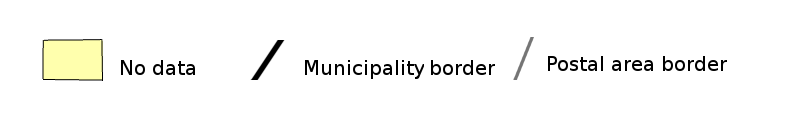
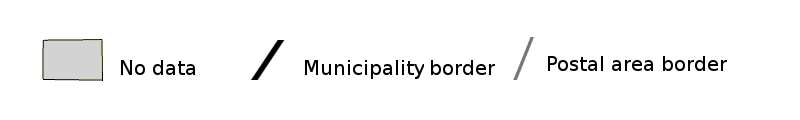
color sceme updates on map, legend updated, avg built year map

Changed region(s): [[0.0312, 0.325, 0.125, 0.675]]

diff --git a/src/drawMaps.py b/src/drawMaps.py
@@ -22,12 +22,19 @@ map = gpd.read_file(mapfile)
 map['POSTI_ALUE'] = map['POSTI_ALUE']
 
 #group the data by postal code and colculate mean size value
-data =  grouper.grouper(data, groupedBy= 'POSTI_ALUE', calculateFrom=['sizeValue', 'rentValue', 'pricePerSquare'])
+data =  grouper.grouper(data, groupedBy= 'POSTI_ALUE', calculateFrom=['sizeValue', 'rentValue', 'pricePerSquare', 'built_year'])
 data['POSTI_ALUE'] = data['POSTI_ALUE']
 
 #will toss runtime warning, because more than 20 figures opened
 #draw maps per postal code
-'''
+
+folder = 'figures/averageYearMap'
+for ix, row in map.iterrows():
+    alue = row['POSTI_ALUE']
+    name = 'avgBuiltYear' + alue + '.png'
+    filepath = os.path.join(folder, name)
+    mapMaker.makeMap(map, data, 'POSTI_ALUE', 'built_year', 'Average built year', \
+                     filepath,  spesArea = alue, spesCol = 'POSTI_ALUE',)
 folder = 'figures/averagePriceMap'
 for ix, row in map.iterrows():
     alue = row['POSTI_ALUE']
@@ -43,8 +50,9 @@ for ix, row in map.iterrows():
     filepath = os.path.join(folder, name)
     mapMaker.makeMap(map, data, 'POSTI_ALUE', 'sizeValue', 'Average size of apartment in m^2',\
                  filepath, spesArea = alue, spesCol = 'POSTI_ALUE', maxValue = 250)
-'''
 
-mapMaker.makeMap(map, data, 'POSTI_ALUE', 'sizeValue', 'Average size of apartment in m^2','figures/averageApartmentSize.png', maxValue = 250)
+
+mapMaker.makeMap(map, data, 'POSTI_ALUE', 'built_year', 'Average built year' , "figures/averageBuiltYearMap.png")
+mapMaker.makeMap(map, data, 'POSTI_ALUE', 'sizeValue', 'Average size of apartment in m^2','figures/averageApartmentSize.png', maxValue = 200)
 mapMaker.makeMap(map, data, 'POSTI_ALUE', 'pricePerSquare', 'Average price per square in €/m^2', 'figures/averagePriceSquareMap.png')
 

diff --git a/src/mapMaker.py b/src/mapMaker.py
@@ -47,10 +47,10 @@ def makeMap(map, info, mergeColumn, drawColumn, title, savePath = None, maxValue
 
     #plot
     #plot empty on the bottom
-    basemap.plot(color = '#ffffad', ax = ax, edgecolor = 'grey')
+    basemap.plot(color = '#D3D3D3', ax = ax, edgecolor = 'grey')
 
     #plot the map
-    plottedMap = map.plot(edgecolor = 'grey', column = drawColumn, cmap = 'PuBuGn', vmin = colorbarMin, vmax = colorbarMax, ax = ax, alpha = 1)
+    plottedMap = map.plot(edgecolor = 'grey', column = drawColumn, cmap = 'YlGnBu', vmin = colorbarMin, vmax = colorbarMax, ax = ax, alpha = 1)
     # get the map as a figure
 
     #plot borders
@@ -69,7 +69,7 @@ def makeMap(map, info, mergeColumn, drawColumn, title, savePath = None, maxValue
     #put the title to the map
     fig.suptitle(title)
     #some internet workaround for making the colorbar for geopandas (from matplotlib, geopandas doesent have its own yet
-    sm = plt.cm.ScalarMappable(cmap='PuBuGn', norm=plt.Normalize(vmin= colorbarMin, vmax=colorbarMax))
+    sm = plt.cm.ScalarMappable(cmap='YlGnBu', norm=plt.Normalize(vmin= colorbarMin, vmax=colorbarMax))
     # fake up the array of the scalar mappable. Urgh...
     sm._A = []
     fig.colorbar(sm)
